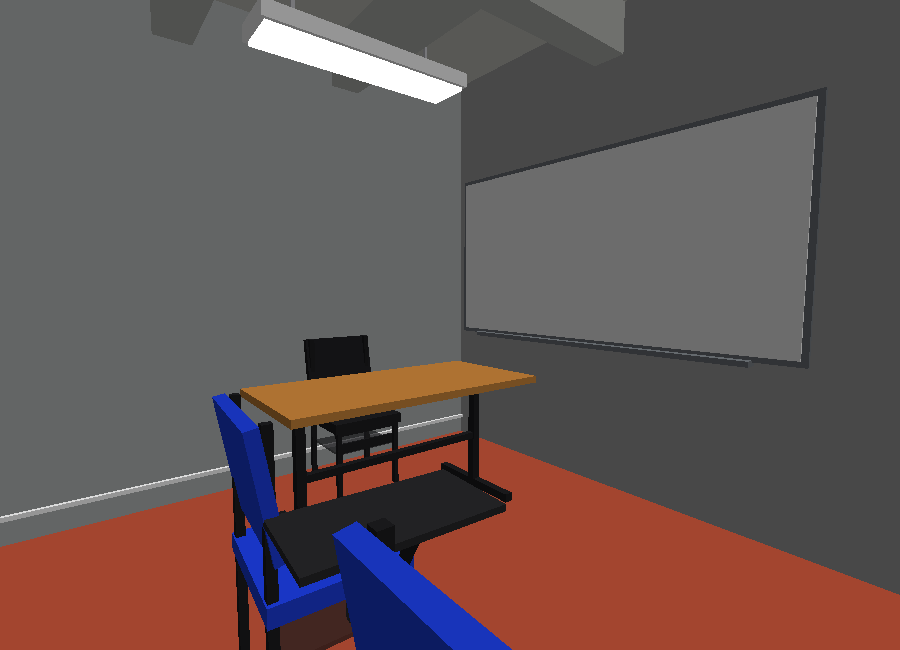
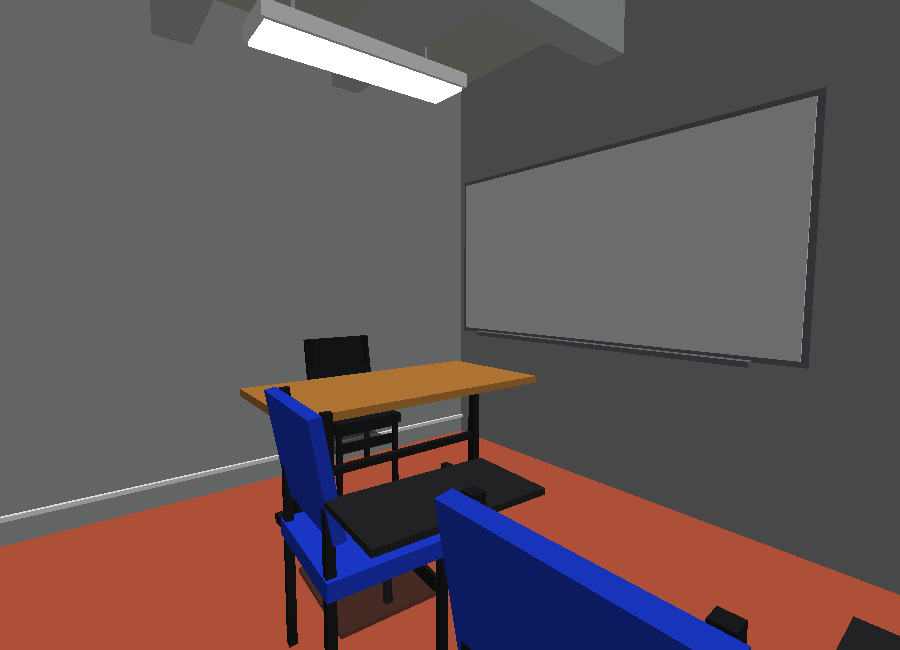
Aplicar revisión de fidelidad y robustez
- Puerta 6B más estrecha (0,84 m) y hojas a 0,39 m con la columna entre ellas; hojas sin colisión.
- Ventana en formato vertical (0,95 x 1,20 m), calado y aire acondicionado reubicados; letrero a 2,56 m.
- Carteles colgando justo bajo el riel; lápices repartidos en todo el ancho de la hoja.
- Construir primero y reemplazar el modelo anterior sólo si la construcción terminó bien;
  idempotencia por atributo en todo Workspace; guarda temprana del límite de Parts;
  historial de deshacer con TryBeginRecording/FinishRecording y respaldo a SetWaypoint.
- Pasillos entre filas de 1,45 m; viga de corredor no visible en la foto eliminada.

Claude-Session: https://claude.ai/code/session_012zkZC8vQMW6UFPq5rDa9YT

Changed region(s): [[0.2178, 0.5846, 0.84, 1.0], [0.9333, 0.9538, 1.0, 1.0]]

diff --git a/README.md b/README.md
@@ -14,11 +14,13 @@ y los dos interiores completos.
 4. Para mover la construcción cambiar `ORIGEN` (studs) al principio del script; para cambiar
    la escala, `ESCALA` (studs por metro). Todas las medidas internas están en metros.
 5. Volver a ejecutar el script reemplaza únicamente el modelo generado por él (lo reconoce por
-   el atributo `GeneradoPorScriptSalones`); nunca toca otros objetos del mapa. `Ctrl+Z` deshace
-   la generación completa (se registran waypoints en ChangeHistoryService).
+   el atributo `GeneradoPorScriptSalones`, aunque se haya renombrado o movido dentro de Workspace);
+   nunca toca otros objetos del mapa. `Ctrl+Z` deshace la generación completa (se registra en
+   ChangeHistoryService).
 
 Si ocurre un error o se supera el límite de 1000 BaseParts, el script elimina la construcción
-parcial y lo reporta en Output.
+parcial, deja intacto el modelo anterior y lo reporta en Output. Si en Workspace ya hay un objeto
+ajeno llamado `Salones_Realistas`, el nuevo modelo se llama `Salones_Realistas_generado`.
 
 ## Interpretación de la distribución (análisis de las fotos)
 
@@ -63,8 +65,11 @@ Sistema de referencia fijo: observador de pie en el corredor mirando la fachada 
 ## Elementos no visibles y valores por defecto (no confirmados por las fotos)
 
 - Largo interior 7,5 m, fondo 6,5 m, altura libre 3,0 m, muros 0,15 m (estimados por proporción).
-- Anchos de puerta: 6B 0,90 m de hueco (hoja 0,80 m, la verde se ve algo más estrecha), 7B 0,96 m
-  (hoja 0,86 m); ambas de 2,15 m de alto.
+- Anchos de puerta: 6B 0,84 m de hueco (hoja 0,74 m; en la foto la verde mide ~0,85 de la metálica),
+  7B 0,96 m (hoja 0,86 m); ambas de 2,15 m de alto, con 0,39 m entre hojas y la columna en medio.
+- Las hojas se construyen cerradas (como en la foto) pero sin colisión, para que el avatar pueda entrar.
+- La ventana se modela según la foto (un solo panel opaco de 0,95 × 1,20 m con marco de dos tonos);
+  el render interior muestra una ventana mayor de tres paños, pero la foto real tiene prioridad.
 - Fachada de 7B a la derecha de su puerta (ventana, calado, aire acondicionado) = espejo de 6B.
 - Fachada de 6B a la izquierda de la ventana: muro blanco liso (en la foto se corta ahí; el
   fragmento de mural pintado del borde izquierdo no se reproduce).
@@ -81,17 +86,18 @@ Sistema de referencia fijo: observador de pie en el corredor mirando la fachada 
 
 | Modelo | BaseParts |
 |---|---|
-| Estructura (pisos, muros ciegos, medianera, losa) | 9 |
-| Corredor (baldosa, franja, columna, canaleta, 2 vigas) | 8 |
+| Estructura (piso, muros ciegos en dos capas, medianera, losa) | 9 |
+| Corredor (baldosa, franja de cemento, columna, canaleta en 2 tramos) | 5 |
 | Salon_1_6B (fachada 67 · techo 58 · acabados 17 · mobiliario 235) | 377 |
 | Salon_2_7B (fachada 102 · techo 58 · acabados 17 · mobiliario 235) | 412 |
-| **Total** | **806 / 1000** |
+| **Total** | **803 / 1000** |
 
 Desglose por salón: 20 pupitres × 11 parts, escritorio 6, silla del profesor 9, 10 vigas,
 9 luminarias fluorescentes × 4, 4 plafones redondos, 2 ventiladores de jaula × 4, aire
 acondicionado 3, interruptor 1, tablero 3, carteles 7 + riel 1, canaletas 2, ventana 9, calado 20,
 puerta 6B 20 (hoja, marco 3, 12 piezas de lápices, pomo, pegatina) o puerta 7B 51 (hoja, marco 3,
-umbral, 42 piezas de paneles, rótulo 3, manija 2) y letrero 1, más los tramos de muro de fachada.
+umbral, 42 piezas de paneles, rótulo 3, manija 2) y letrero 1, caja eléctrica 2, más los tramos de
+muro de fachada (dos capas: piel exterior blanca y capa interior gris).
 Todos los textos (6B, 7B, letrero, riel) son `SurfaceGui` + `TextLabel`: 0 Parts.
 
 ### Cómo verificar el recuento real después de ejecutar
@@ -109,5 +115,6 @@ print("BaseParts en Salones_Realistas:", n)
 
 ## Escala
 
-`ESCALA = 4` studs por metro: puertas de 3,8 × 8,6 studs (un avatar R15 de 5 studs pasa con
-holgura), escritorio a 3 studs de altura, asientos a 1,9 studs, techo a 12 studs.
+`ESCALA = 4` studs por metro: luz libre de puertas de 3,0 (6B) y 3,4 (7B) × 8,4 studs (el
+HumanoidRootPart de 2 studs pasa; las hojas cerradas no colisionan), pasillos entre filas de
+pupitres ≥ 2,9 studs, escritorio a 3 studs de altura, asientos a 1,9 studs, techo a 12 studs.
